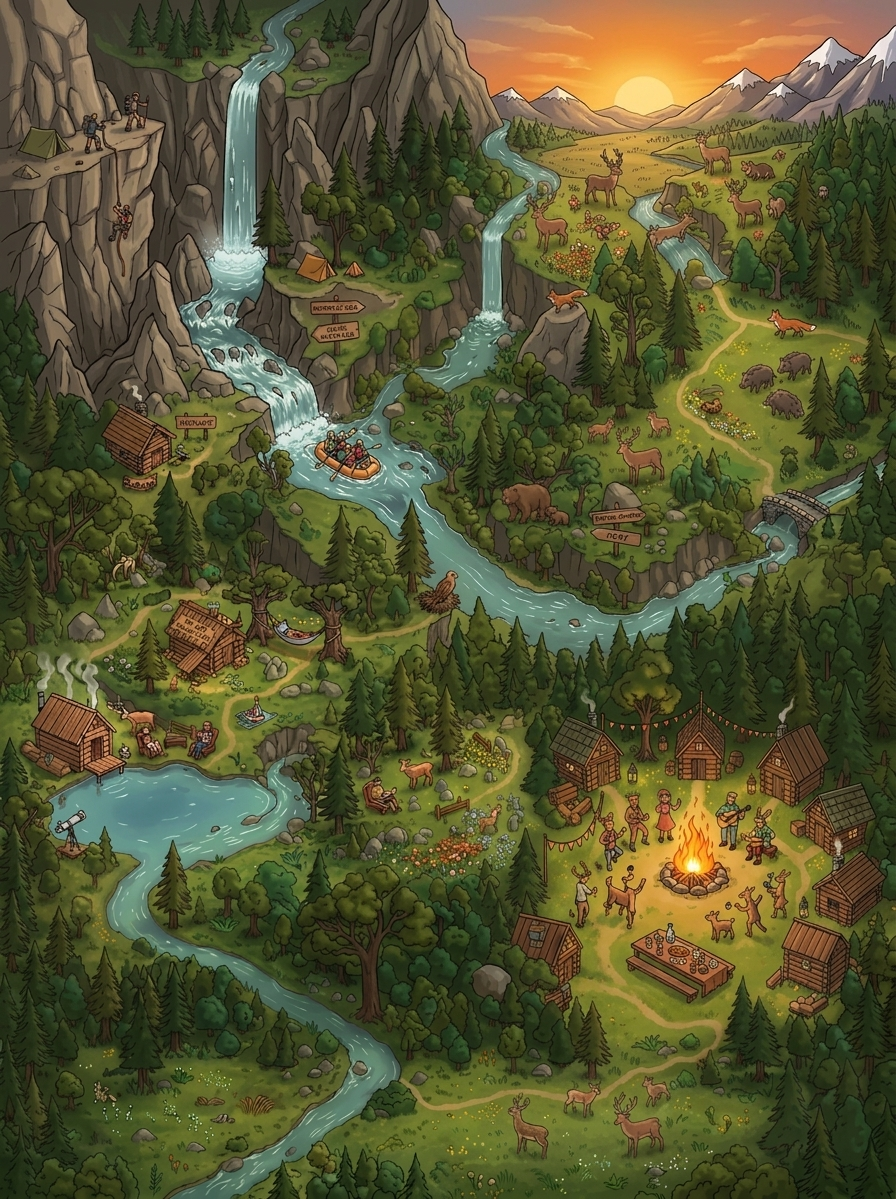
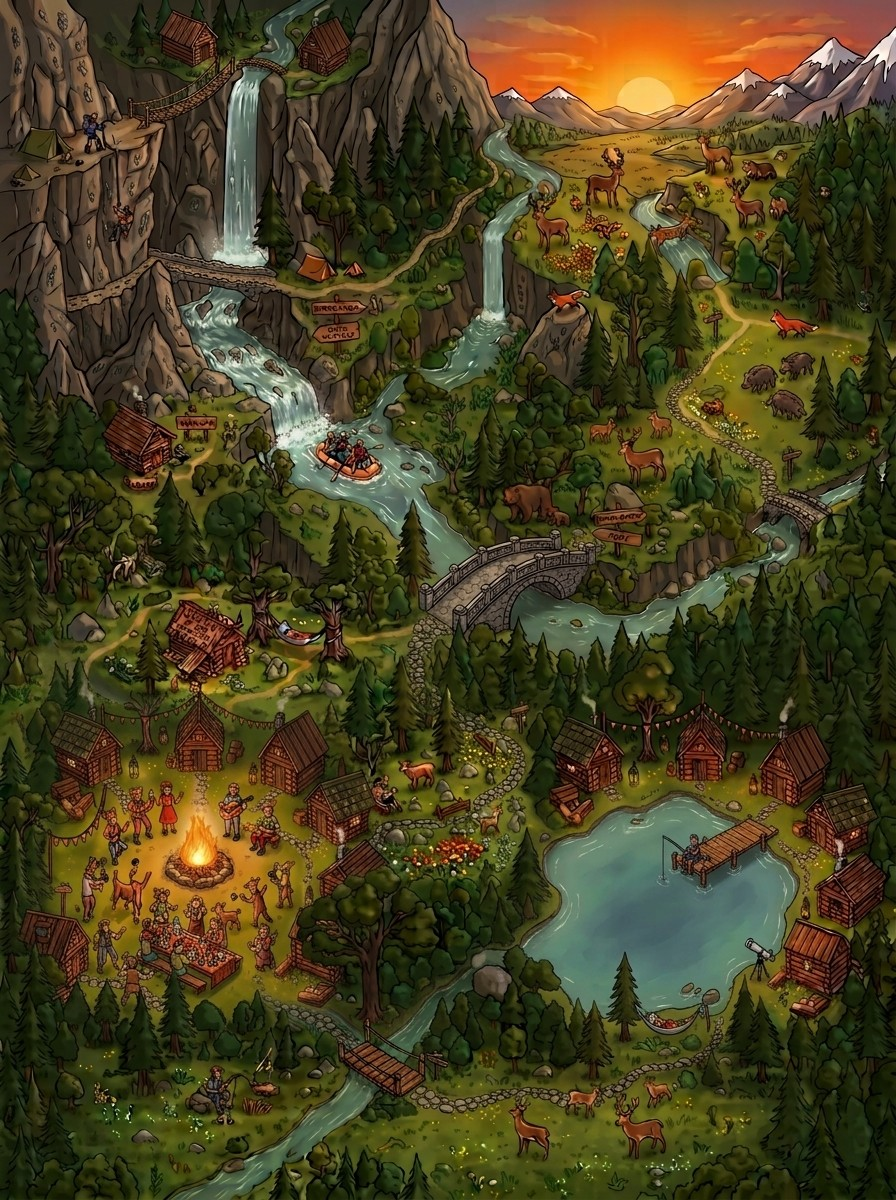
Explore map: repainted with social and relax swapped; bubbles follow

diff --git a/src/constants/exploreMapMarkers.ts b/src/constants/exploreMapMarkers.ts
@@ -9,14 +9,16 @@ export type ExploreMapMarkerDef = {
 };
 
 /** Pixel size of `explore-map-background.jpg` (illustrated forest map). */
-export const EXPLORE_MAP_SOURCE_SIZE = { width: 896, height: 1199 };
+export const EXPLORE_MAP_SOURCE_SIZE = { width: 896, height: 1200 };
 
 // One category per quadrant, each on the scene painted for it (round 2, R2-17; map repainted and
 // placed with Standa 2026-09-26):
 //   • adventure (top left)     → the raft in the white water below the waterfalls
 //   • nature    (top right)    → the meadow with the deer, level with adventure
-//   • relax     (bottom left)  → the pond (its right half: the left half is cropped on phones)
-//   • social    (bottom right) → just below the campfire, so the bubble does not cover the fire
+//   • social    (bottom left)  → just below and right of the campfire, so the bubble does not cover
+//     the fire and stays clear of the left edge on phones
+//   • relax     (bottom right) → the pond with the jetty
+// Relax and social swapped sides when the map was repainted (Standa, 2026-09-26), for a better flow.
 //
 // Constraints when retuning:
 //   • cover-fit crops the sides on a portrait phone while the full height
@@ -35,8 +37,8 @@ export const EXPLORE_MAP_MARKERS: ExploreMapMarkerDef[] = [
   },
   {
     categoryId: 'cat-relax',
-    u: 0.27,
-    v: 0.665,
+    u: 0.71,
+    v: 0.74,
     accessibilityHint: 'Relax quests — at the pond, time to rest',
   },
   {
@@ -47,8 +49,8 @@ export const EXPLORE_MAP_MARKERS: ExploreMapMarkerDef[] = [
   },
   {
     categoryId: 'cat-social',
-    u: 0.72,
-    v: 0.785,
+    u: 0.28,
+    v: 0.79,
     accessibilityHint: 'Social quests — around the fire, new people and closer friends',
   },
 ];
